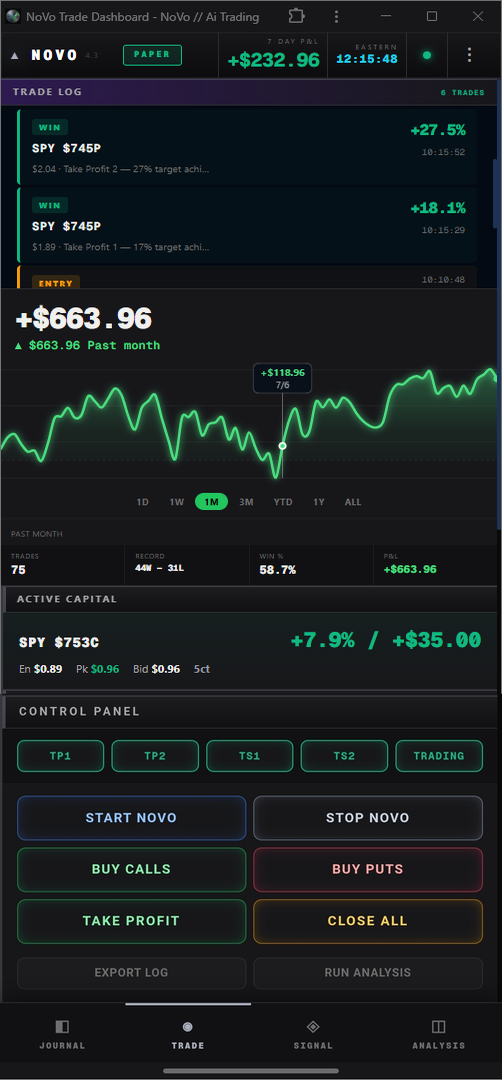
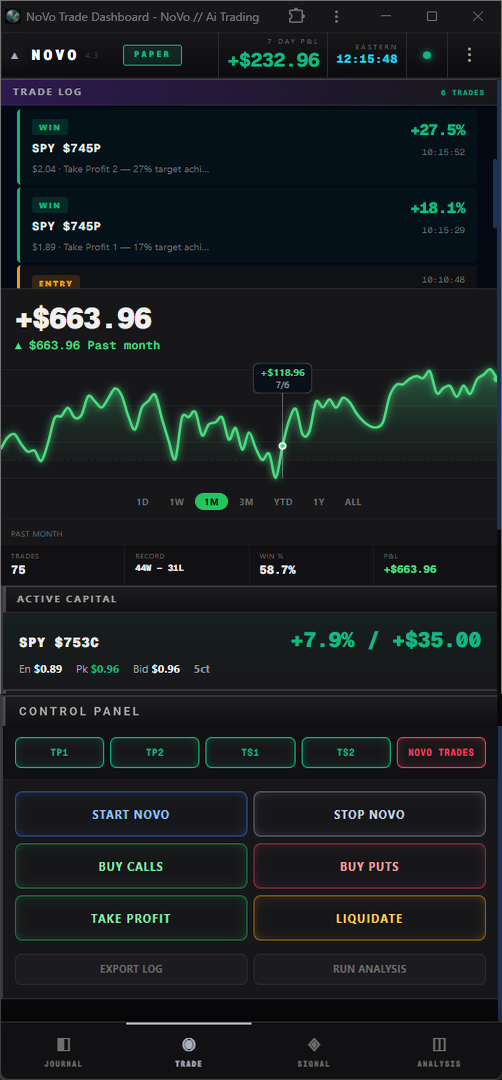
store: refresh mobile trade shot with updated control panel
Drop the current control panel onto the mobile trade screenshot: renamed
buttons NOVO TRADES (was TRADING) and LIQUIDATE (was CLOSE ALL), matching
the reframe. Cache-buster v7 -> v8.

Claude-Session: https://claude.ai/code/session_01J4UP9MPAMJHVv4amQMpvTn

diff --git a/public/index.html b/public/index.html
@@ -766,7 +766,7 @@
 
       <div class="ss-mobile-row">
         <div>
-          <div class="ss-mobile"><img src="/screenshots/mobile-trade.png?v=7" alt="NoVo mobile trade view — trade beside NoVo with one-tap Buy Calls / Buy Puts" loading="lazy"></div>
+          <div class="ss-mobile"><img src="/screenshots/mobile-trade.png?v=8" alt="NoVo mobile trade view — trade beside NoVo with one-tap Buy Calls / Buy Puts" loading="lazy"></div>
           <p class="ss-mobile-cap">Trade beside NoVo from your phone — one-tap Buy Calls / Buy Puts, or hand it the wheel.</p>
         </div>
         <div>